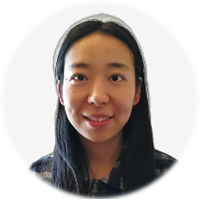
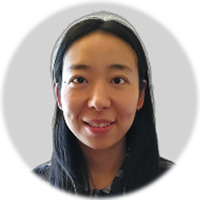
scripts: match the backdrop colour the existing portraits use
The two regenerated portraits sat on #f5f5f5, which read noticeably lighter than
the rest of the member grid. The lab already has a backdrop colour: #d3d3d3.
Eight portraits from the earlier pipeline -- huiqing_zeng, hana_palova,
karol_pal, jacob_sieg, saswat_mohanty, byung_june, edmundo and lauren_heverly --
all store exactly rgb(211,211,211). #f5f5f5 was my invention, not the convention.

Regenerated both against #d3d3d3, and made it the default for --background.

One deliberate difference remains. Those eight store the backdrop at alpha 197,
not 255, so the whole portrait is slightly see-through -- a leftover from the old
`-blur 0x2 -level 25x100%` step. On the white page that lightens them to an
effective 221, so this change closes most of a 34-point gap but leaves about 10.
Matching it exactly would mean reintroducing the transparency, which is worse:
the site has day_night = true, and under the dark theme those portraits blend
down to roughly 169 while an opaque one stays at 211. Opaque is stable across
both themes, so the small residual difference on the light theme is the better
trade.

diff --git a/scripts/portraits.py b/scripts/portraits.py
@@ -30,7 +30,10 @@ from PIL import Image, ImageDraw, ImageFilter, ImageOps
 # --- Look of the finished portrait -------------------------------------------
 
 SIZE = 200
-BACKGROUND = (245, 245, 245)  # flat colour placed behind the cut-out person
+# Flat colour behind the cut-out person. #d3d3d3, matching the backdrop the
+# earlier pipeline produced -- huiqing_zeng, hana_palova, karol_pal, jacob_sieg,
+# saswat_mohanty, byung_june, edmundo and lauren_heverly all store exactly this.
+BACKGROUND = (211, 211, 211)
 CROP_SCALE = 2.0  # square crop side, as a multiple of the detected face width
 CROP_DROP = 0.05  # nudge the crop down slightly, so hair is not clipped
 ALPHA_FLOOR = 26  # below this, rembg alpha is background haze rather than a real edge
@@ -322,10 +325,10 @@ def describe(path: Path) -> str:
 )
 @click.option(
     "--background",
-    default="#f5f5f5",
+    default="#d3d3d3",
     callback=parse_colour,
     metavar="#RRGGBB",
-    help="Flat colour placed behind the person.",
+    help="Flat colour placed behind the person  [default: #d3d3d3]",
 )
 @click.option("--force", is_flag=True, help="Replace portraits that already exist.")
 def main(
